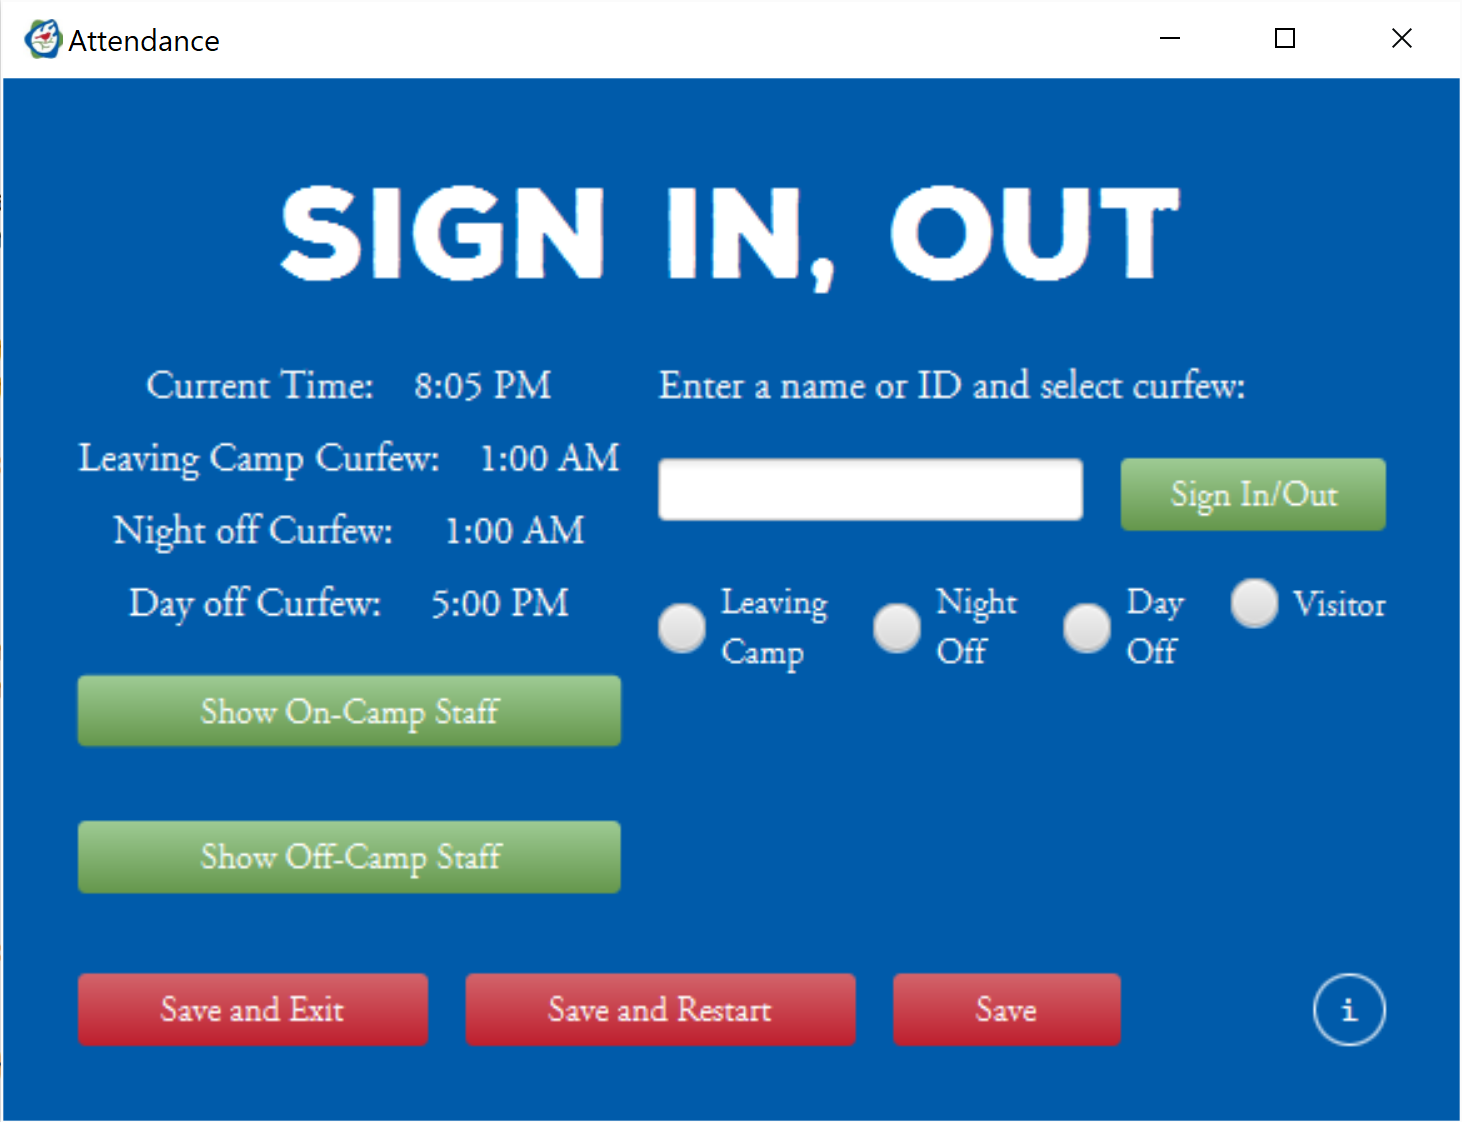
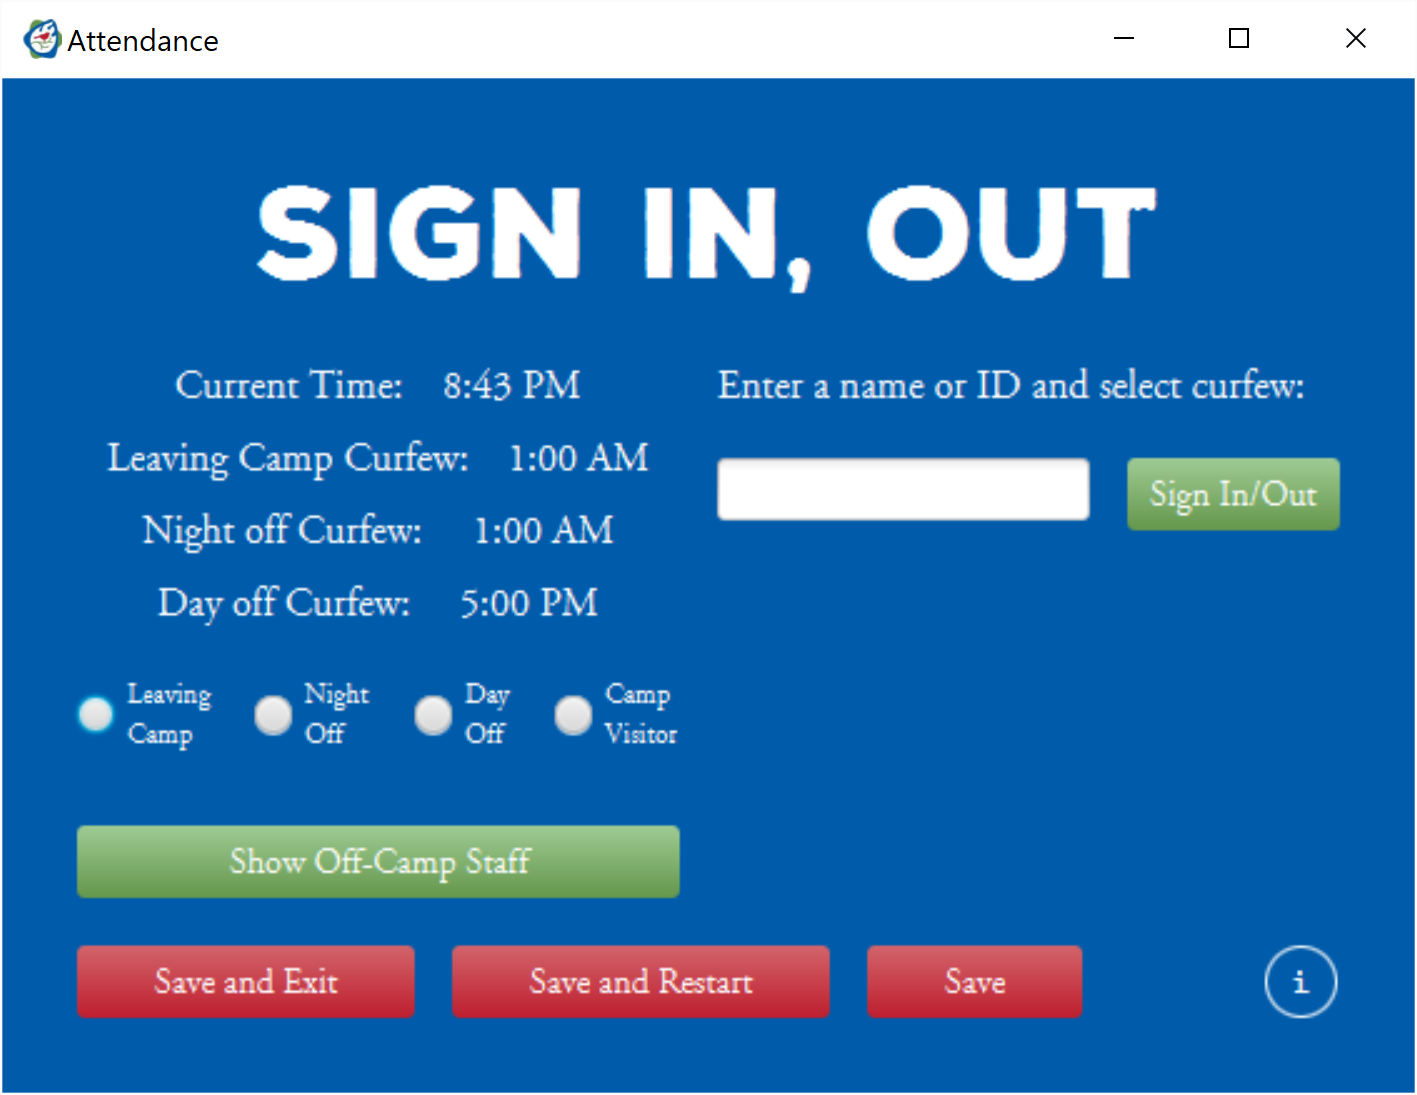
update README for OSRUI-specific version

diff --git a/README.md b/README.md
@@ -11,7 +11,7 @@
   - [*Configuration File*](#configuration-file)
   - [*Application Use*](#application-use)
 - [Changelog](#changelog)
-  - [*Version 2.0 (to be released 5/8/2022)*](#version-20-to-be-released-582022)
+  - [*Version 2.0 (released 5/8/2022)*](#version-20-released-582022)
   - [*Version 1.3 (released 3/12/2021)*](#version-13-released-3122021)
   - [*Version 1.2 (released 2/11/2021)*](#version-12-released-2112021)
   - [*Version 1.1 (released 8/7/2020)*](#version-11-released-872020)
@@ -145,14 +145,6 @@ The **Save and Restart** button will save the current attendance record to the s
 
 **VERY IMPORTANT: Make sure you do not have your attendance spreadsheet open while attempting to write to it (*Save*, *Save and Exit*, or *Save and Restart*). The write will fail and data may be lost.**
 
-![On-Camp Staff list](resources/images/instructions/on_camp_staff.png)
-
-Clicking on **Show On-Camp Staff** will pop up a list of all staff members and visitors listed in the attendance file that are currently on camp, listed by bunk/position. Clicking on the name of a person in this list will cause a dropdown to appear that allows you to manually sign them out.
-
-![Manual Sign-Out dropdown](resources/images/instructions/manual_sign_out.png)
-
-Clicking on any of the buttons in the dropdown will sign the staff member or visitor out with the curfew of the selected button. *(This is the same functionality as typing the person's name into the ID box, selecting the same curfew radio button, and clicking the **Sign In/Out** button.)*
-
 ![Off-Camp Staff list](resources/images/instructions/off_camp_staff.png)
 
 Clicking on **Show On-Camp Staff** will pop up a list of all staff members listed in the attendance file that are currently off of camp, listed by bunk/position. Clicking on the name of a person in this list will cause a dropdown to appear that allows you to manually sign them in.
@@ -165,7 +157,7 @@ Clicking on any of the buttons in the dropdown will sign the staff member in. *(
 
 ## Changelog
 
-### *Version 2.0 (to be released 5/8/2022)*
+### *Version 2.0 (released 5/8/2022)*
 
 Much has changed since `v1.3`. This is not a fully-comprehensive list of changes.
 
